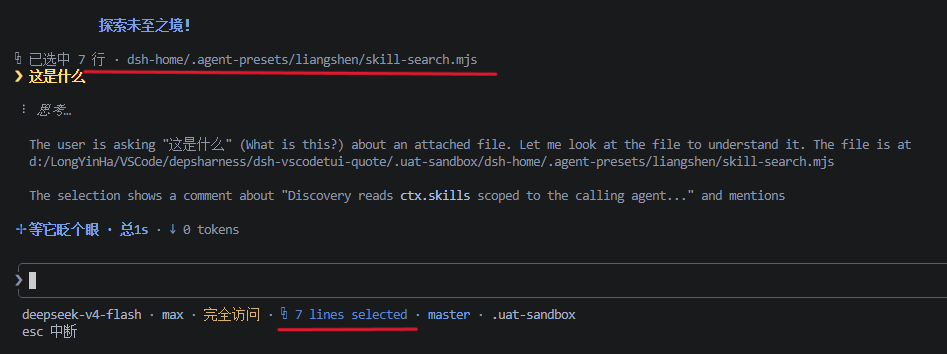
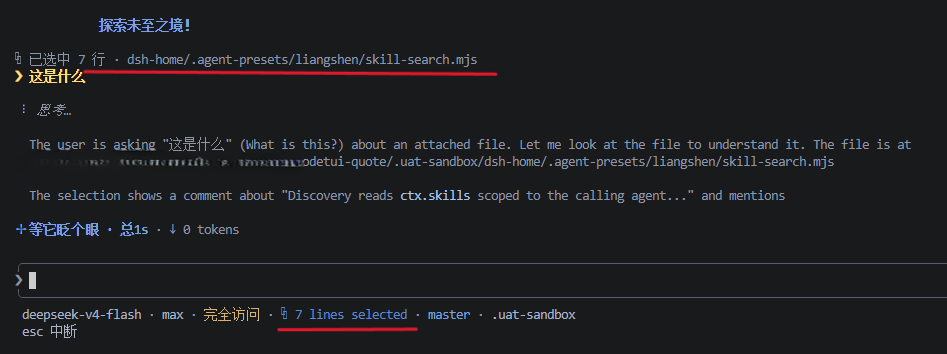
docs(ide): 英文文档换行按仓库惯例重排 + 更新实测截图

Changed region(s): [[0.0306, 0.404, 0.3369, 0.4972]]

diff --git a/docs/vscode.en.md b/docs/vscode.en.md
@@ -48,19 +48,18 @@ TUI's rendering core — it only **hosts** it and adds editor integration.
 
 ### IDE selection channel
 
-With a dsh-tui build that includes the IDE selection channel, the extension runs
-a loopback WebSocket server and writes a lock file; dsh-tui connects via
-injected env vars when launched from the extension (manually launched sessions
-discover it by scanning the lock). Afterwards:
+With a dsh-tui build that includes the IDE selection channel, the extension runs a
+loopback WebSocket server and writes a lock file; dsh-tui connects via injected env
+vars when launched from the extension (manually launched sessions discover it by
+scanning the lock). Afterwards:
 
-- Selecting code in the editor instantly shows a `⧉ N lines selected` badge
-  under the TUI prompt (it disappears when the selection clears);
-- Submitting a message attaches only the selected lines (sliced by coordinates)
-  to the model context, with a `⧉ Selected N lines from <relative path>`
-  indicator above the user bubble in the transcript;
-- Selection pushes carry coordinates only (no text) — the TUI reads file
-  content on demand; without an IDE or on disconnect everything degrades
-  silently with zero impact on the rest of the TUI.
+- Selecting code in the editor instantly shows a `⧉ N lines selected` badge under
+  the TUI prompt (it disappears when the selection clears);
+- Submitting a message attaches only the selected lines to the model context, with
+  a `⧉ Selected N lines from <relative path>` indicator above the user bubble;
+- Selection pushes carry coordinates only (no text) — the TUI reads file content on
+  demand; without an IDE or on disconnect everything degrades silently with zero
+  impact on the rest of the TUI.
 
 ![IDE selection channel: live footer badge and transcript indicator](../screenshots/ide-selection-badge.png)
 
